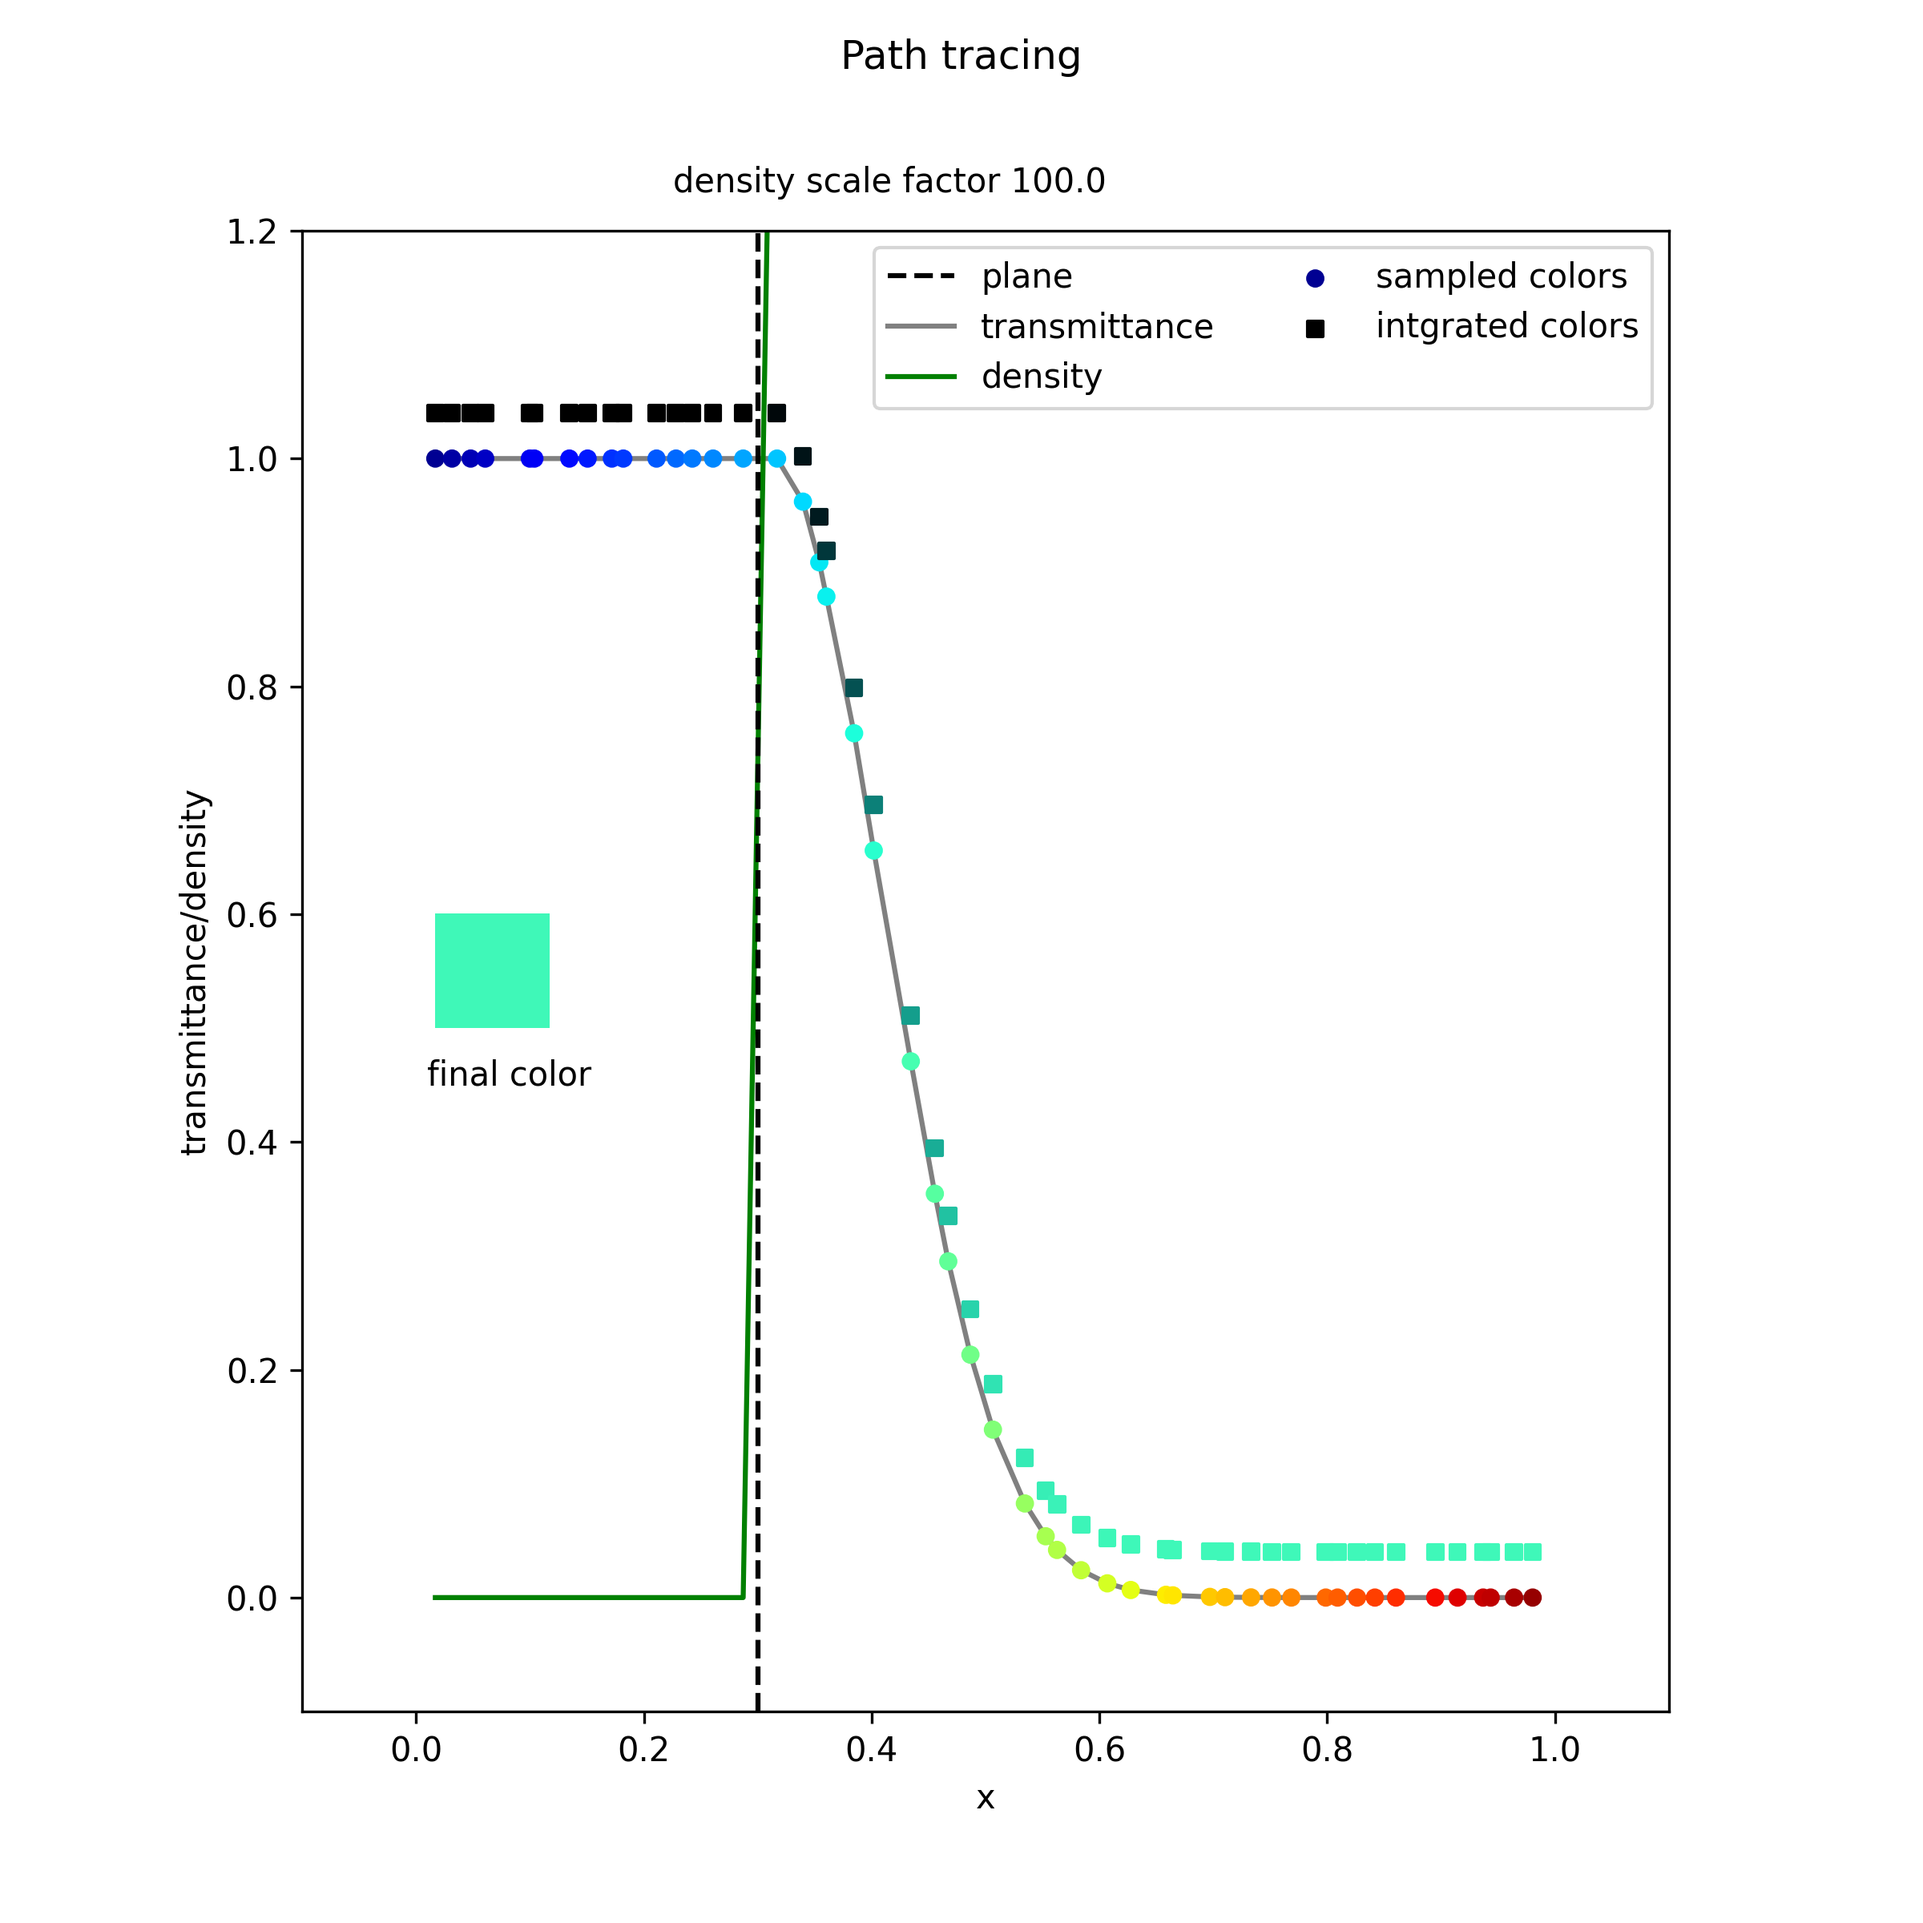
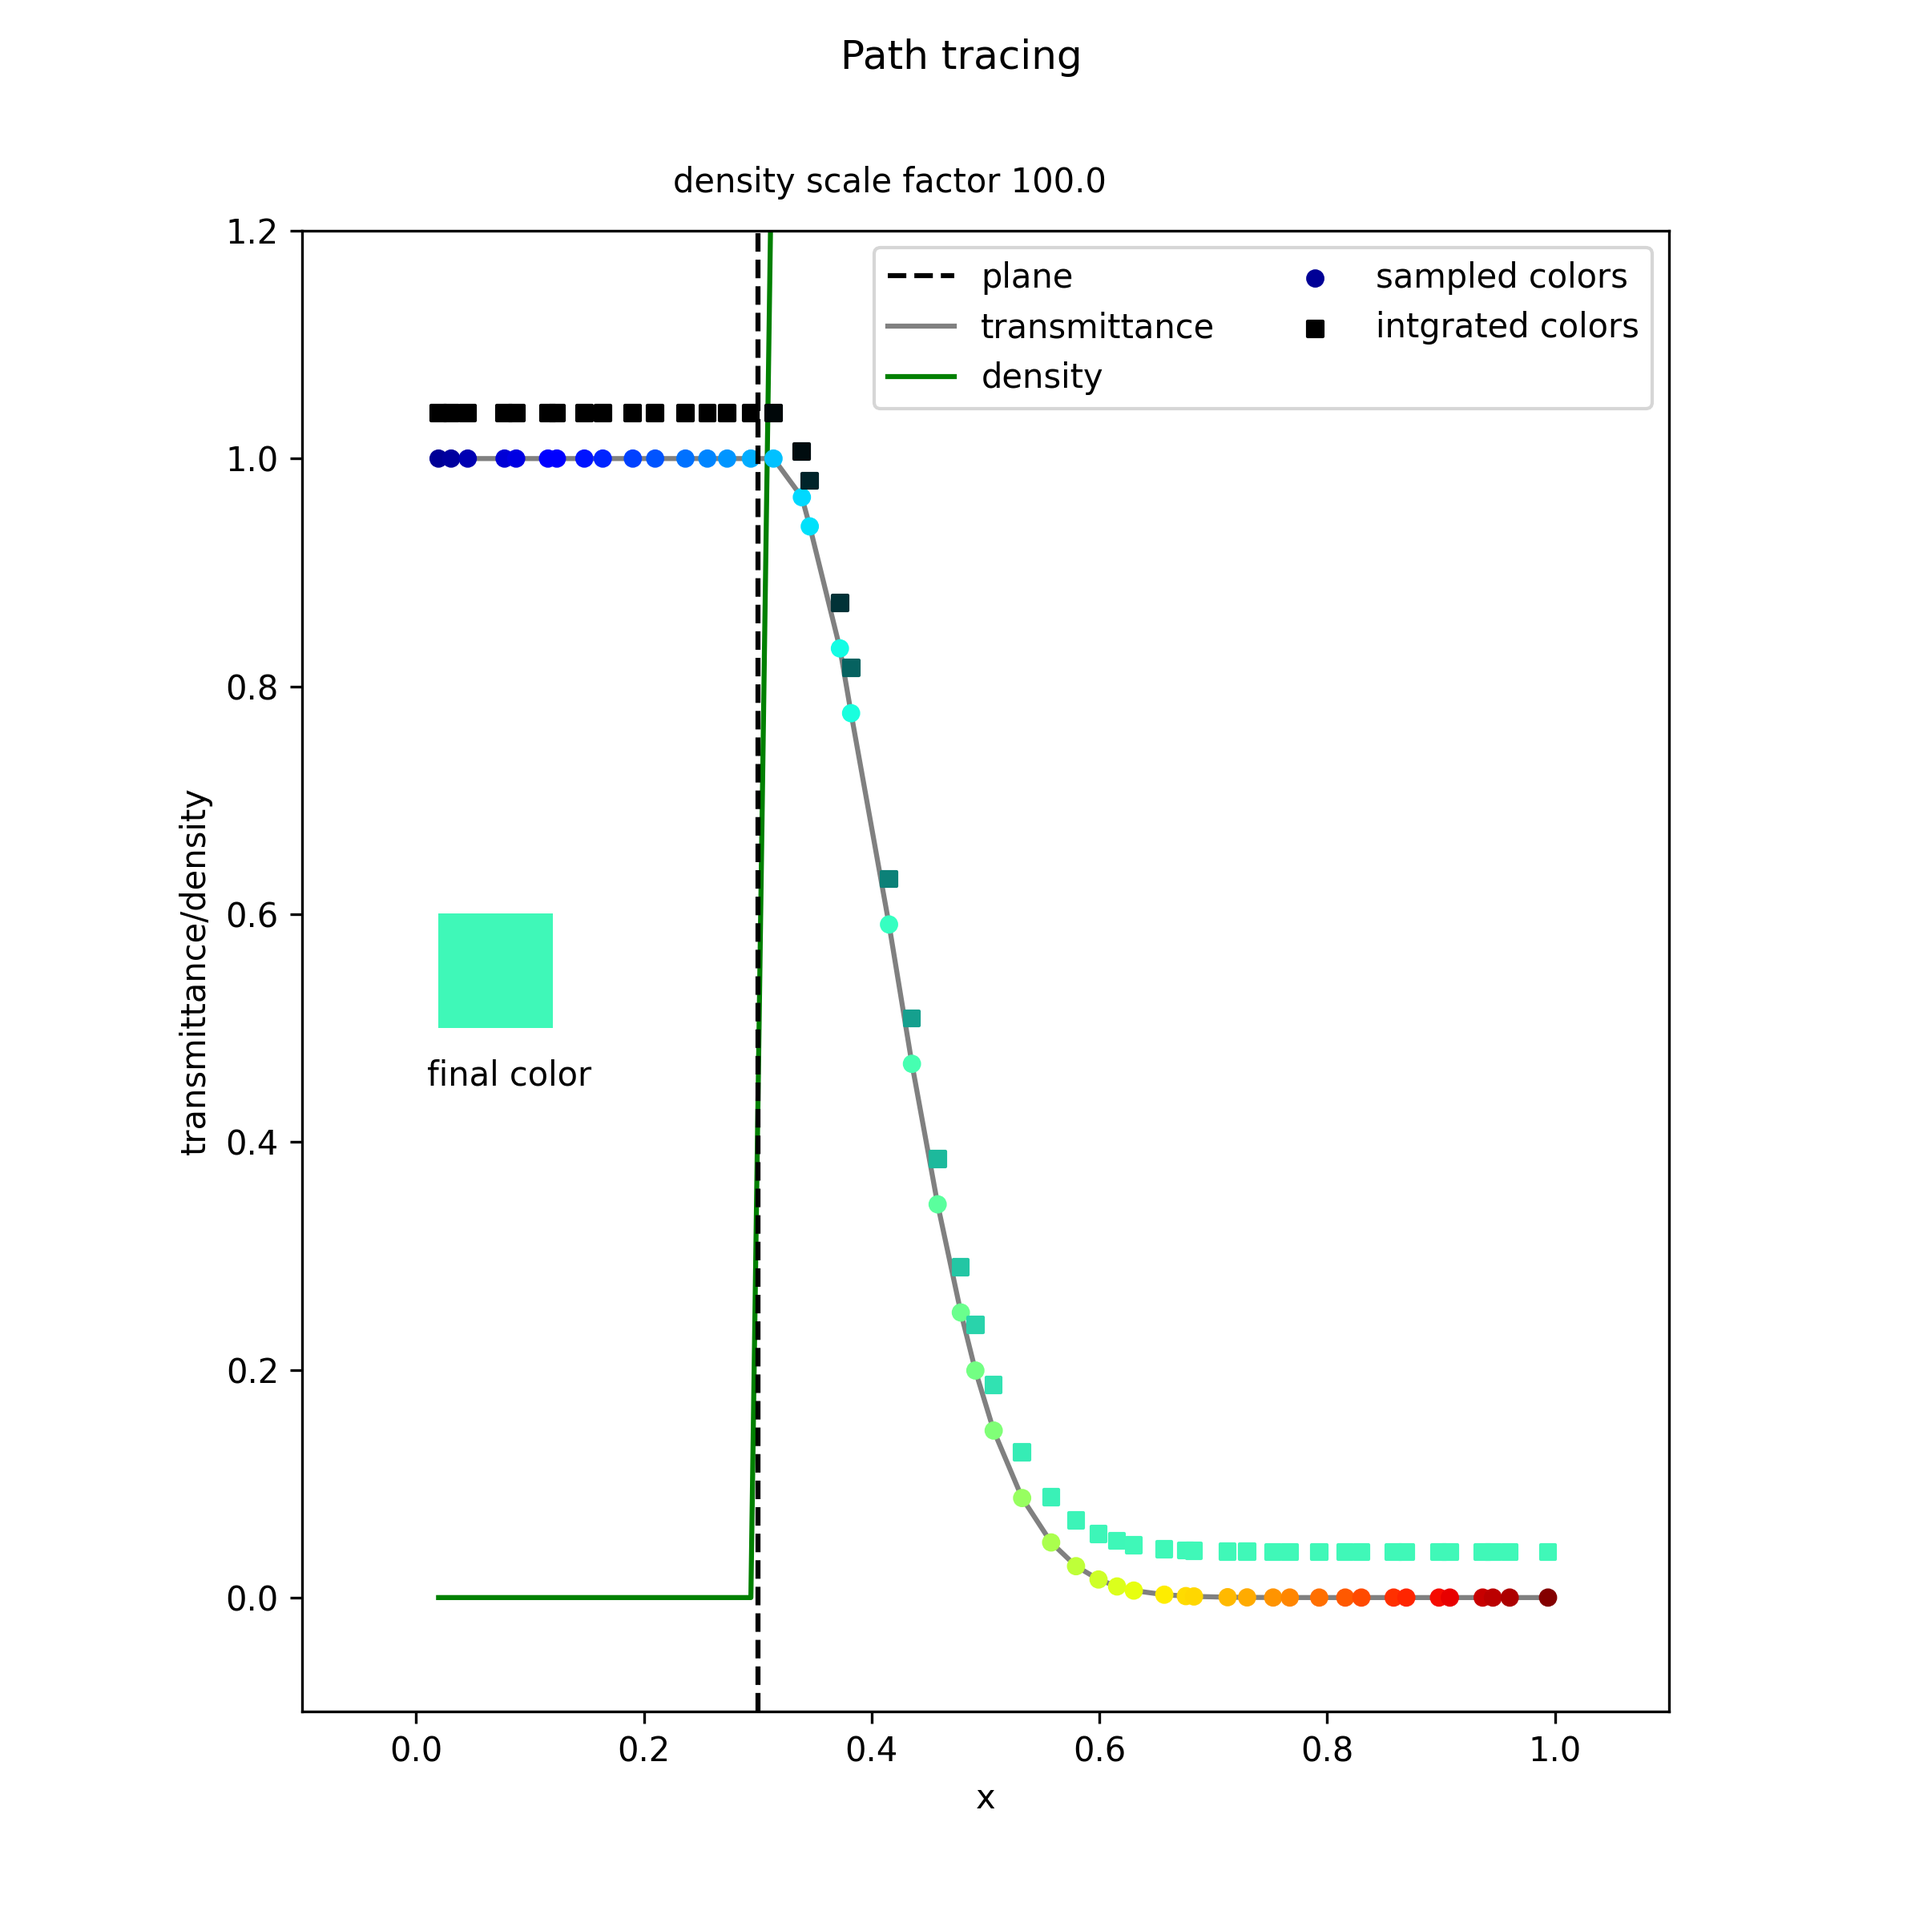
fixed parameter - issue with rendering

diff --git a/torchngp/rendering.py b/torchngp/rendering.py
@@ -45,16 +45,17 @@ def render_volume_stratified(
     color, sigma = radiance_field(xyz)
 
     # Integrate colors along rays
-    integ_color, integ_transm, sample_alpha = radiance.integrate_path(
+    integ_color, integ_log_transm = radiance.integrate_path(
         color, sigma, torch.cat((ray_ts, ray_tfar.unsqueeze(0)), 0)
     )
 
-    final_alpha = 1.0 - integ_transm[-1] * sample_alpha[-1]
+    final_alpha = 1.0 - integ_log_transm[-2].exp()
+    final_color = integ_color[-1]
 
     out_color = color.new_zeros(batch_shape + color.shape[-1:])
     out_alpha = sigma.new_zeros(batch_shape + (1,))
 
-    out_color[ray_hit] = integ_color[-1].to(out_color.dtype)
+    out_color[ray_hit] = final_color.to(out_color.dtype)
     out_alpha[ray_hit] = final_alpha.to(out_alpha.dtype)
 
     return out_color, out_alpha
@@ -75,7 +76,7 @@ def render_camera_views(
     alpha_parts = []
     for uv, _ in gen:
         color, alpha = render_volume_stratified(
-            radiance_field, aabb, cam, uv, n_ray_steps=n_ray_step_samples
+            radiance_field, aabb, cam, uv, n_ray_t_steps=n_ray_step_samples
         )
         color_parts.append(color)
         alpha_parts.append(alpha)

diff --git a/torchngp/tests/test_radiance.py b/torchngp/tests/test_radiance.py
@@ -60,9 +60,7 @@ def test_radiance_integrate_path():
 
     ts_padded = torch.cat((ts, torch.tensor(1.0).view(1, 1, 1)), 0)
     color, density = rf(xyz)
-    out_colors, log_transmittance, alpha = radiance.integrate_path(
-        color, density, ts_padded
-    )
+    out_colors, log_transmittance = radiance.integrate_path(color, density, ts_padded)
     assert_close(out_colors[-1], torch.tensor([[0.2, 0.2, 0.2]]))
 
     # Test soft transit and move plane
@@ -73,7 +71,7 @@ def test_radiance_integrate_path():
         cmap="gray",
     )
     color, density = rf(xyz)
-    out_colors, log_transmittance, alpha = radiance.integrate_path(
+    out_colors, log_transmittance = radiance.integrate_path(
         color, density, ts_padded, 0
     )
 

diff --git a/torchngp/training.py b/torchngp/training.py
@@ -135,7 +135,7 @@ def train(
                     nerf.aabb,
                     train_mvs[0],
                     uv,
-                    n_ray_steps=n_ray_step_samples,
+                    n_ray_t_steps=n_ray_step_samples,
                 )
                 pred_rgb_mixed = pred_rgb * pred_alpha + noise * (1 - pred_alpha)
 
